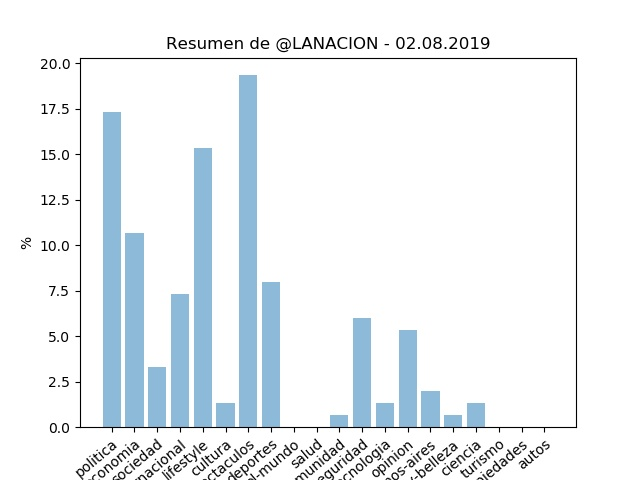
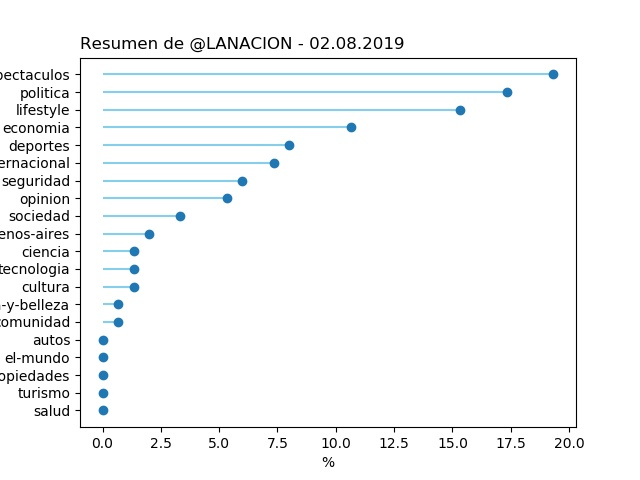
test lollipop

Changed region(s): [[0.125, 0.0625, 0.9062, 1.0], [0.0, 0.125, 0.125, 0.9062]]

diff --git a/utiles.py b/utiles.py
@@ -1,9 +1,11 @@
 import datetime
 import json
 
+import pandas as pd
 import numpy as np
 import matplotlib
 import matplotlib.pyplot as plt
+import seaborn as sns
 
 from wordcloud import WordCloud as wc
 import tweepy
@@ -133,7 +135,7 @@ def nube_de_palabras(path, data):
     wordcloud.recolor(100)
     wordcloud.to_file(path)
 
-def graf_de_barras(path, titulo, etiquetas, unidad, data):
+def histograma(path, titulo, etiquetas, unidad, data, valfmt="{x:.2f}"):
     y_pos = np.arange(len(etiquetas))
 
     fig, ax = plt.subplots()
@@ -146,7 +148,35 @@ def graf_de_barras(path, titulo, etiquetas, unidad, data):
     plt.savefig(path)
 
     # plt.show()
+
+def lollipop(path, titulo, etiquetas, unidad, data, valfmt="{x:.2f}"):
+    # Create a dataframe
+    df = pd.DataFrame({'etiquetas':etiquetas, 'valores':data })
+
+    a = df.etiquetas
+    b = df.valores
+
+
+    # Reorder it following the values:
+    ordered_df = df.sort_values(by='valores')
+    my_range=range(0,len(df.index))
     
+    # The vertival plot is made using the hline function
+    # I load the seaborn library only to benefit the nice looking feature
+    fig, ax = plt.subplots()
+
+    ax.hlines(y=ordered_df.etiquetas, xmin=0, xmax=ordered_df.valores, color='skyblue')
+    ax.plot(ordered_df.valores, my_range, "o")
+    
+    # Add titles and axis names
+    if isinstance(valfmt, str):
+        valfmt = matplotlib.ticker.StrMethodFormatter(valfmt)
+
+    plt.yticks(my_range, ordered_df.etiquetas)
+    plt.title(titulo, loc='left')
+    plt.xlabel(unidad)
+    plt.ylabel('Group')
+    plt.savefig(path)
 
 def cmap_del_dia():
 

diff --git a/dlm.py b/dlm.py
@@ -425,7 +425,8 @@ def perfil(parametros):
         data.extend([n*100/total for n in lista_medio])
         conteo = np.array(data)
 
-        utiles.graf_de_barras(path="perfil-" + tag + ".jpg", titulo="Resumen de " + diario['twitter'] + " - " + string_fecha, etiquetas=categorias, unidad="%", data=data)
+        # utiles.histograma(path="perfil-" + tag + ".jpg", titulo="Resumen de " + diario['twitter'] + " - " + string_fecha, etiquetas=categorias, unidad="%", data=data)
+        utiles.lollipop(path="perfil-" + tag + ".jpg", titulo="Resumen de " + diario['twitter'] + " - " + string_fecha, etiquetas=categorias, unidad="%", valfmt="{x:.1f}%", data=data)
 
         # fig, ax = plt.subplots()
         # im, cbar = utiles.heatmap(conteo, etiqueta_medios, categorias, ax=ax, cmap=utiles.cmap_del_dia(), cbarlabel=string_fecha, cbar_format="{x:.0f}%")
@@ -453,9 +454,6 @@ def usage():
     print("--solo-titulos - indica que solo se analizan títulos")
 
 def main():
-    # heatmap()
-    # return
-
     accion = None
     top_max = 10
     try:
